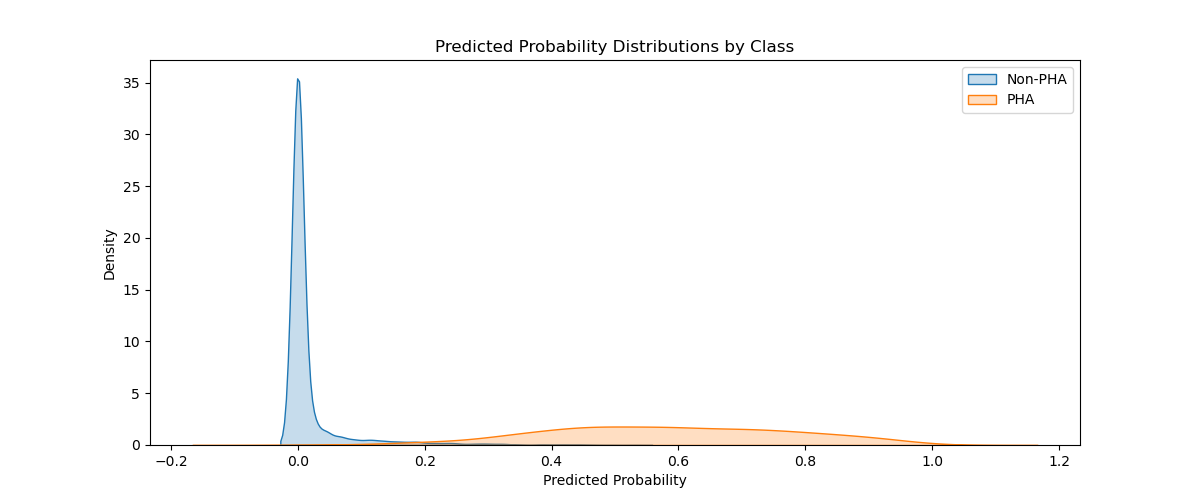
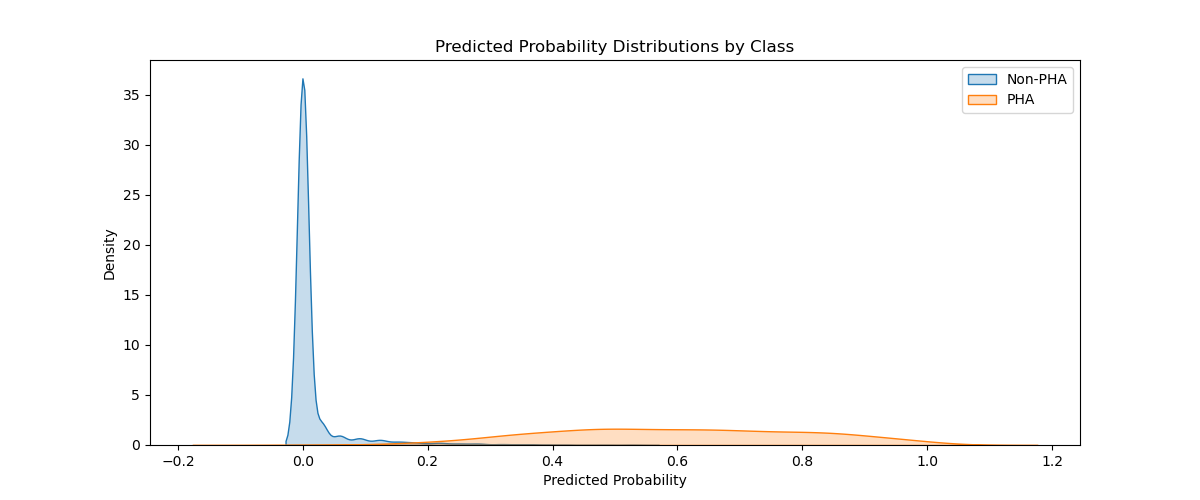
fixed works for all three options , Refined READme

diff --git a/README.md b/README.md
@@ -1,38 +1,62 @@
-# Predicting Potentially Hazardous Near-Earth Asteroids
-
+**Predicting Potentially Hazardous Near-Earth Asteroids**
 Authors: Jerry Jin, Malcolm Maxwell, Sadie Lee
+**About**
+This project uses machine learning to predict potentially hazardous near-earth asteroids (PHAs) using NASA's Small-Body DataBase (SBDB).
+Report
+The analysis notebook can be found at notebooks/asteroid_analysis.ipynb.
 
-## About
+**Usage**
+**Option 1: Run with Docker Compose (Recommended)**
+The simplest way to run the project. Requires Docker Desktop to be installed and running.
+Step 1: Clone the repository:
+bash
+git clone https://github.com/UBC-DSCI-310-2025W2/dsci-310-group-18.git
+cd dsci-310-group-18
+Step 2: Start the container:
+bash
+docker compose up
+Step 3: Open the URL printed in the terminal (starting with http://127.0.0.1:8888/...) in your browser.
+Step 4: Navigate to work/notebooks/asteroid_analysis.ipynb and run all cells via Kernel → Restart Kernel and Run All Cells.
+Step 5: When finished, stop the container with Ctrl+C, then:
+bashdocker compose down
 
-## Report
+**Option 2: Build Docker Image Locally and Run**
+Use this if you want to build the image from source rather than pulling from DockerHub. Requires Docker Desktop.
+Step 1: Clone the repository:
+bash 
+git clone https://github.com/UBC-DSCI-310-2025W2/dsci-310-group-18.git
+cd dsci-310-group-18
+Step 2: Build the image locally:
+bash
+docker build -t dsci-310-group-18 .
 
-## Usage
+Note: This may take 5–10 minutes as it installs all dependencies.
 
-This project uses `conda-lock` for Docker. Install using: 
-```bash
-conda-lock install --name YOURENV conda-lock.yml
-```
-### Running with Docker (Recommended)
-This project's computation environment is containerized using Docker. To run the analysis and develop collaboratively:
+Step 3: Run the container:
+bashdocker run --rm -p 8888:8888 -v "$(pwd)":/home/jovyan/work dsci-310-group-18
+Step 4: Open the URL printed in the terminal (starting with http://127.0.0.1:8888/...) in your browser.
+Step 5: Navigate to work/notebooks/asteroid_analysis.ipynb and run all cells via Kernel → Restart Kernel and Run All Cells.
 
-1. **Build the Docker image:**
-   Navigate to the root of this repository and run:
-   ```bash
-   docker build -t dsci-310-group-18 .
-
-2. **Run Docker**
-    docker run --rm -p 8888:8888 -v "$(pwd):/home/jovyan/work" zheqijin/dsci-310-group-18 jupyter lab   
-Open the URL provided in the terminal (starting with http://127.0.0.1:8888/lab) in your browser to access the notebooks.
-
-3.  **Running Locally (Without Docker)**
-If you prefer not to use Docker, you can install the environment locally using conda-lock:
-
-Bash
+**Option 3: Run Locally with Conda**
+Use this if you prefer not to use Docker. Requires conda and conda-lock to be installed.
+Step 1: Clone the repository:
+bash
+git clone https://github.com/UBC-DSCI-310-2025W2/dsci-310-group-18.git
+cd dsci-310-group-18
+Step 2: Install conda-lock if not already installed:
+bash
+conda install -n base conda-forge::conda-lock
+Step 3: Create and activate the environment:
+bash
 conda-lock install --name dsci310proj conda-lock.yml
 conda activate dsci310proj
-jupyter lab 
-## Dependencies
+Step 4: Launch Jupyter Lab:
+bash
+jupyter lab
+Step 5: Open notebooks/asteroid_analysis.ipynb and run all cells via Kernel → Restart Kernel and Run All Cells.
 
-## License
-
-This project is offered under the [Attribution 4.0 International (CC BY 4.0) License](https://creativecommons.org/licenses/by/4.0/). The software in this project is offered under the [MIT open source license](https://opensource.org/licenses/MIT). See [the license file](LICENSE.md) for more information. 
+**Dependencies**
+All dependencies are pinned in conda-lock.yml and defined in environment.yml:
+PackageVersionpython3.12pandas3.0numpy2.4.2scipy1.17.0matplotlib3.10.8seaborn0.13.2scikit-learn1.8.0requests2.32.5ipykernel7.1conda-lock4.0
+**License**
+This project is offered under the Attribution 4.0 International (CC BY 4.0) License. The software in this project is offered under the MIT open source license. See the license file for more information.
